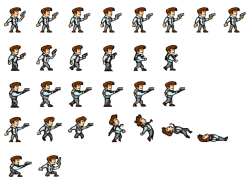
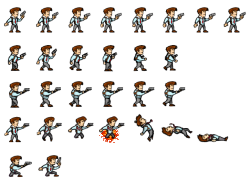
bonus fix, texture add

Changed region(s): [[0.392, 0.5978, 0.504, 0.788]]

diff --git a/player.cpp b/player.cpp
@@ -41,8 +41,8 @@ void Player::control(bool on_platform)
         if(sf::Joystick::isButtonPressed(joy_nr, 0))
             if(velocity.y == 0 && on_platform)velocity.y = -jump_speed_;
 
-        if(sf::Joystick::getAxisPosition(joy_nr, sf::Joystick::Axis::X) == 100)velocity.x = move_speed_;
-        else if(sf::Joystick::getAxisPosition(joy_nr, sf::Joystick::Axis::X) == -100)velocity.x = -move_speed_;
+        if(sf::Joystick::getAxisPosition(joy_nr, sf::Joystick::Axis::X) >80 && sf::Joystick::getAxisPosition(joy_nr, sf::Joystick::Axis::X) < 120)velocity.x = move_speed_;
+        else if(sf::Joystick::getAxisPosition(joy_nr, sf::Joystick::Axis::X) > -120 && sf::Joystick::getAxisPosition(joy_nr, sf::Joystick::Axis::X) < -80)velocity.x = -move_speed_;
         else velocity.x = 0;
 
     }
@@ -51,8 +51,11 @@ void Player::control(bool on_platform)
 void Player::jetpack(bool on_platform)
 {
     if(input_ == input::gamepad){
-        if(sf::Joystick::isButtonPressed(joy_nr, 4) && (on_platform == false))
+        if(sf::Joystick::isButtonPressed(joy_nr, 4) && (on_platform == false)){
             velocity.y = -jump_speed_;
+            jetpack_ = true;
+        }
+        else jetpack_ = false;
     }
 }
 
@@ -98,28 +101,36 @@ void Player::collision(const std::vector<std::unique_ptr<sf::Drawable>> &vector)
 void Player::animation(bool on_platform)
 {
 
+
     if(velocity.x == 0 && on_platform){ //stanie
         image_select(0, 0);
     }
     else if(velocity.x > 0 && on_platform){ //chodzenie w prawo
-        image_select(5, 0);
+        image_select(1, 1);
     }
     else if(velocity.x < 0 && on_platform){ //chodzenie w lewo
-        image_select(5, 0, false);
+        image_select(1, 1, false);
+    }
+    else if((velocity.x >= 0) && (jetpack_ == true)){ //jetpack w prawo i w miejscu
+        image_select(3, 3);
+    }
+    else if(velocity.x < 0 && jetpack_ == true){ //jetpack w lewo
+        image_select(3, 3, false);
+    }
+    else if(velocity.x >= 0 && velocity.y > 0 && jetpack_ == false){ //skok w prawo i w miejscu
+        image_select(2, 3);
     }
 
-    else if(velocity.x >= 0 && velocity.y > 0){ //skok w prawo i w miejscu
-        image_select(6, 0);
+    else if(velocity.x < 0 && velocity.y > 0 && jetpack_ == false){ //skok w lewo
+        image_select(2, 3, false);
     }
-    else if(velocity.x < 0 && velocity.y > 0){ //skok w lewo
-        image_select(6, 0, false);
-    }
+
 
     else if(velocity.x >= 0 && velocity.y < 0){ //spadanie w prawo i w miejscu
-        image_select(7, 0);
+        image_select(1, 3);
     }
     else if(velocity.x < 0 && velocity.y < 0){ //spadanie w lewo
-        image_select(7, 0, false);
+        image_select(1, 3, false);
     }
     setTextureRect(rect);
 }
@@ -266,18 +277,18 @@ void Player::respawn(int hight, const std::vector<std::unique_ptr<sf::Drawable> 
 void Player::bonus()
 {
     if((bonus_type == Type::gun) && active_bonus && bonus_clock.getElapsedTime().asSeconds()<bonus_duration){
-        this->fire_rate = 50;
-        std::cout<<"XDDDDDDDDDDDDDDDDDDDDDDDDDDDDDDDDDDDDDDDDDDDD";
+        fire_rate = 20;
     }
-    if((bonus_type == Type::aid) && active_bonus){
+    else if((bonus_type == Type::aid) && active_bonus){
         life = 100;
         active_bonus = false;
     }
 
 
-    if((bonus_type == Type::speed) && active_bonus && bonus_clock.getElapsedTime().asSeconds()<bonus_duration){
-        move_speed_ = 500;
-        jump_speed_ = 500;
+    else if((bonus_type == Type::speed) && active_bonus && bonus_clock.getElapsedTime().asSeconds()<bonus_duration){
+
+        move_speed_ = 400;
+        jump_speed_ = 400;
     }
     else{
         bonus_clock.restart();

diff --git a/main.cpp b/main.cpp
@@ -46,7 +46,7 @@ int main()
     //////////////////////INTERFACE//////////////////////
     sf::Vector2f interface_pos = {window_size.x/2, -1000};
     int bar_offset = window_size.y*(1.0f - proportion);
-    Background bar(sf::Vector2f(window_size.x, bar_offset), sf::Vector2f(100, 100), "background.png");
+    Background bar(sf::Vector2f(window_size.x, bar_offset), sf::Vector2f(40, 20), "interface.png");
     bar.setOrigin(window_size.x/2, bar_offset/2);
     bar.setPosition(interface_pos);
 
@@ -91,6 +91,7 @@ int main()
 
     sf::Clock clk;
     sf::Clock bonus_clk;
+    int bonus_interval = 10;
 
 
     while(window.isOpen() && players[1]->get_score() < goal && players[0]->get_score() < goal){
@@ -102,23 +103,24 @@ int main()
             }
         }
         sf::Time bonus_time = bonus_clk.getElapsedTime();
-        Bonus::bonus_generator(bonus_time, bonus_clk, things);
-        window.clear(sf::Color::Black);
+        Bonus::bonus_generator(bonus_time, bonus_clk, things, bonus_interval);
+        window.clear(sf::Color(0, 77, 153));
 //        window.draw(*background);
         sf::Time time = clk.restart();
         for (size_t i = 0; i < players.size(); ++i){
             views[i]->setCenter(sf::Vector2f(players[i]->getPosition()));
             window.setView(*views[i]);
             for (auto const &player:players)
-            window.draw(*player);
+                window.draw(*player);
             bool on_platform = players[i]->gravity(4, things);
+            players[i]->jetpack(on_platform);
             players[i]->animation(on_platform);
             players[i]->control(on_platform);
             players[i]->collision(things);
             players[i]->movement();
             players[i]->teleport();
             players[i]->shooting();
-            players[i]->jetpack(on_platform);
+
             players[i]->bulets_remove();
             players[i]->respawn(10, things);
             players[i]->bonus();
@@ -156,8 +158,9 @@ int main()
 
 
         }
-        std::cout<<players[1]->bonus_clock.getElapsedTime().asSeconds()<<std::endl;
+
         sf::View interface = *views[views.size()-1];
+        window.draw(bar);
         window.setView(interface);
 
         life1.setString(std::to_string(players[0]->get_life()));

diff --git a/bonus.cpp b/bonus.cpp
@@ -13,9 +13,9 @@ Bonus::Bonus(std::vector<std::unique_ptr<sf::Drawable>> &things):sf::Sprite()
     setPosition(sf::Vector2f(platform->getPosition().x + platform->get_size().x/2, platform->getPosition().y - size_ - hight));
 }
 
-void Bonus::bonus_generator(sf::Time &time, sf::Clock &clock, std::vector<std::unique_ptr<sf::Drawable>> &things)
+void Bonus::bonus_generator(sf::Time &time, sf::Clock &clock, std::vector<std::unique_ptr<sf::Drawable>> &things, int bonus_pause)
 {
-    if(time.asSeconds()>5){
+    if(time.asSeconds()>bonus_pause){
         std::unique_ptr<Bonus> bonus = std::make_unique<Bonus>(things);
         bonus->type_ = bonus->type(bonus->random());
         things.emplace_back(std::move(bonus));

diff --git a/player.h b/player.h
@@ -47,7 +47,9 @@ public:
     sf::Clock bonus_clock;
     void bonus();
     void hight_limit();
+    bool jetpack_ = false;
 private:
+
     int bonus_duration = 10;
     void image_select(float x, float y, bool is_right = true);
     sf::Vector2f shooting_dir();
@@ -62,7 +64,7 @@ private:
     Bullet bullet_;
     int score = -1;
     int damage = 10;
-    float fire_rate = 10;
+    float fire_rate = 5;
     float fire_rate_old;
     float move_speed_ = 200;
     float jump_speed_ = 200;

diff --git a/bonus.h b/bonus.h
@@ -10,7 +10,7 @@ class Bonus : public sf::Sprite
 {
 public:
     Bonus(std::vector<std::unique_ptr<sf::Drawable>> &things);
-    static void bonus_generator(sf::Time &time, sf::Clock &clock, std::vector<std::unique_ptr<sf::Drawable>> &things);
+    static void bonus_generator(sf::Time &time, sf::Clock &clock, std::vector<std::unique_ptr<sf::Drawable>> &things, int bonus_pause);
     Type random();
     Type type(Type type);
     bool touch(std::unique_ptr<Player> &player);

diff --git a/bullet.cpp b/bullet.cpp
@@ -39,8 +39,8 @@ bool Bullet::is_dead(sf::Vector2f window_size, const std::vector<std::unique_ptr
             }
 
             if((getPosition().x>window_size.x+400)
-                    ||(getPosition().x<0)
-                    ||(getPosition().y>window_size.y+400)
+                    ||(getPosition().x<-400)
+                    ||(getPosition().y>window_size.y)
                     ||(getPosition().y<-800)){
                 return true;
             }

diff --git a/bullet.h b/bullet.h
@@ -20,7 +20,7 @@ public:
 
 private:
     int size_ = 5;
-    int speed_ = 300;
+    int speed_ = 500;
     sf::Vector2f dir;
 };
 
